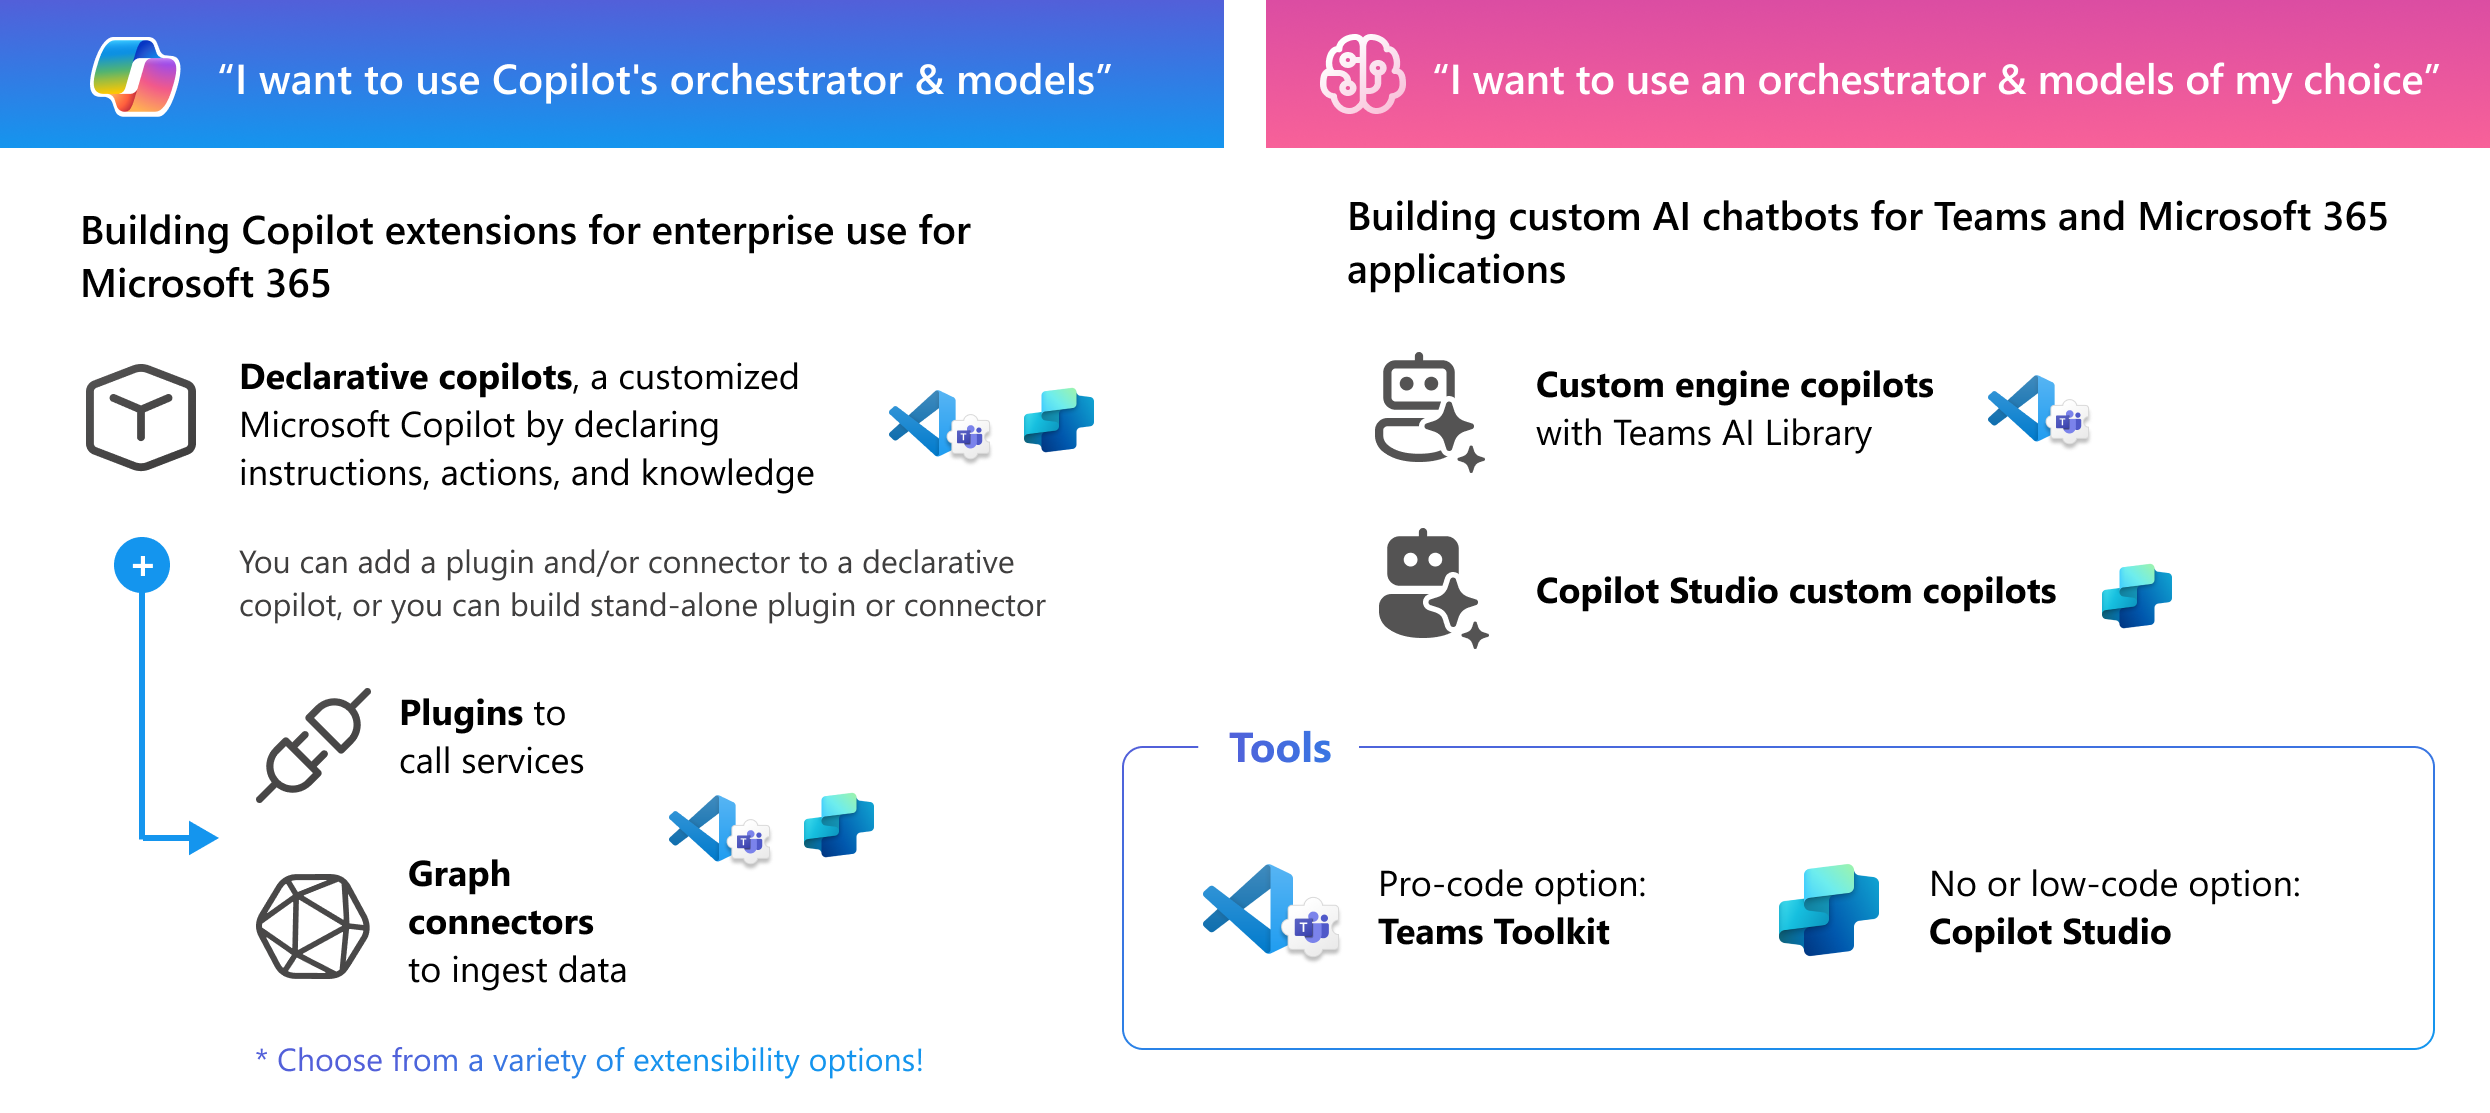
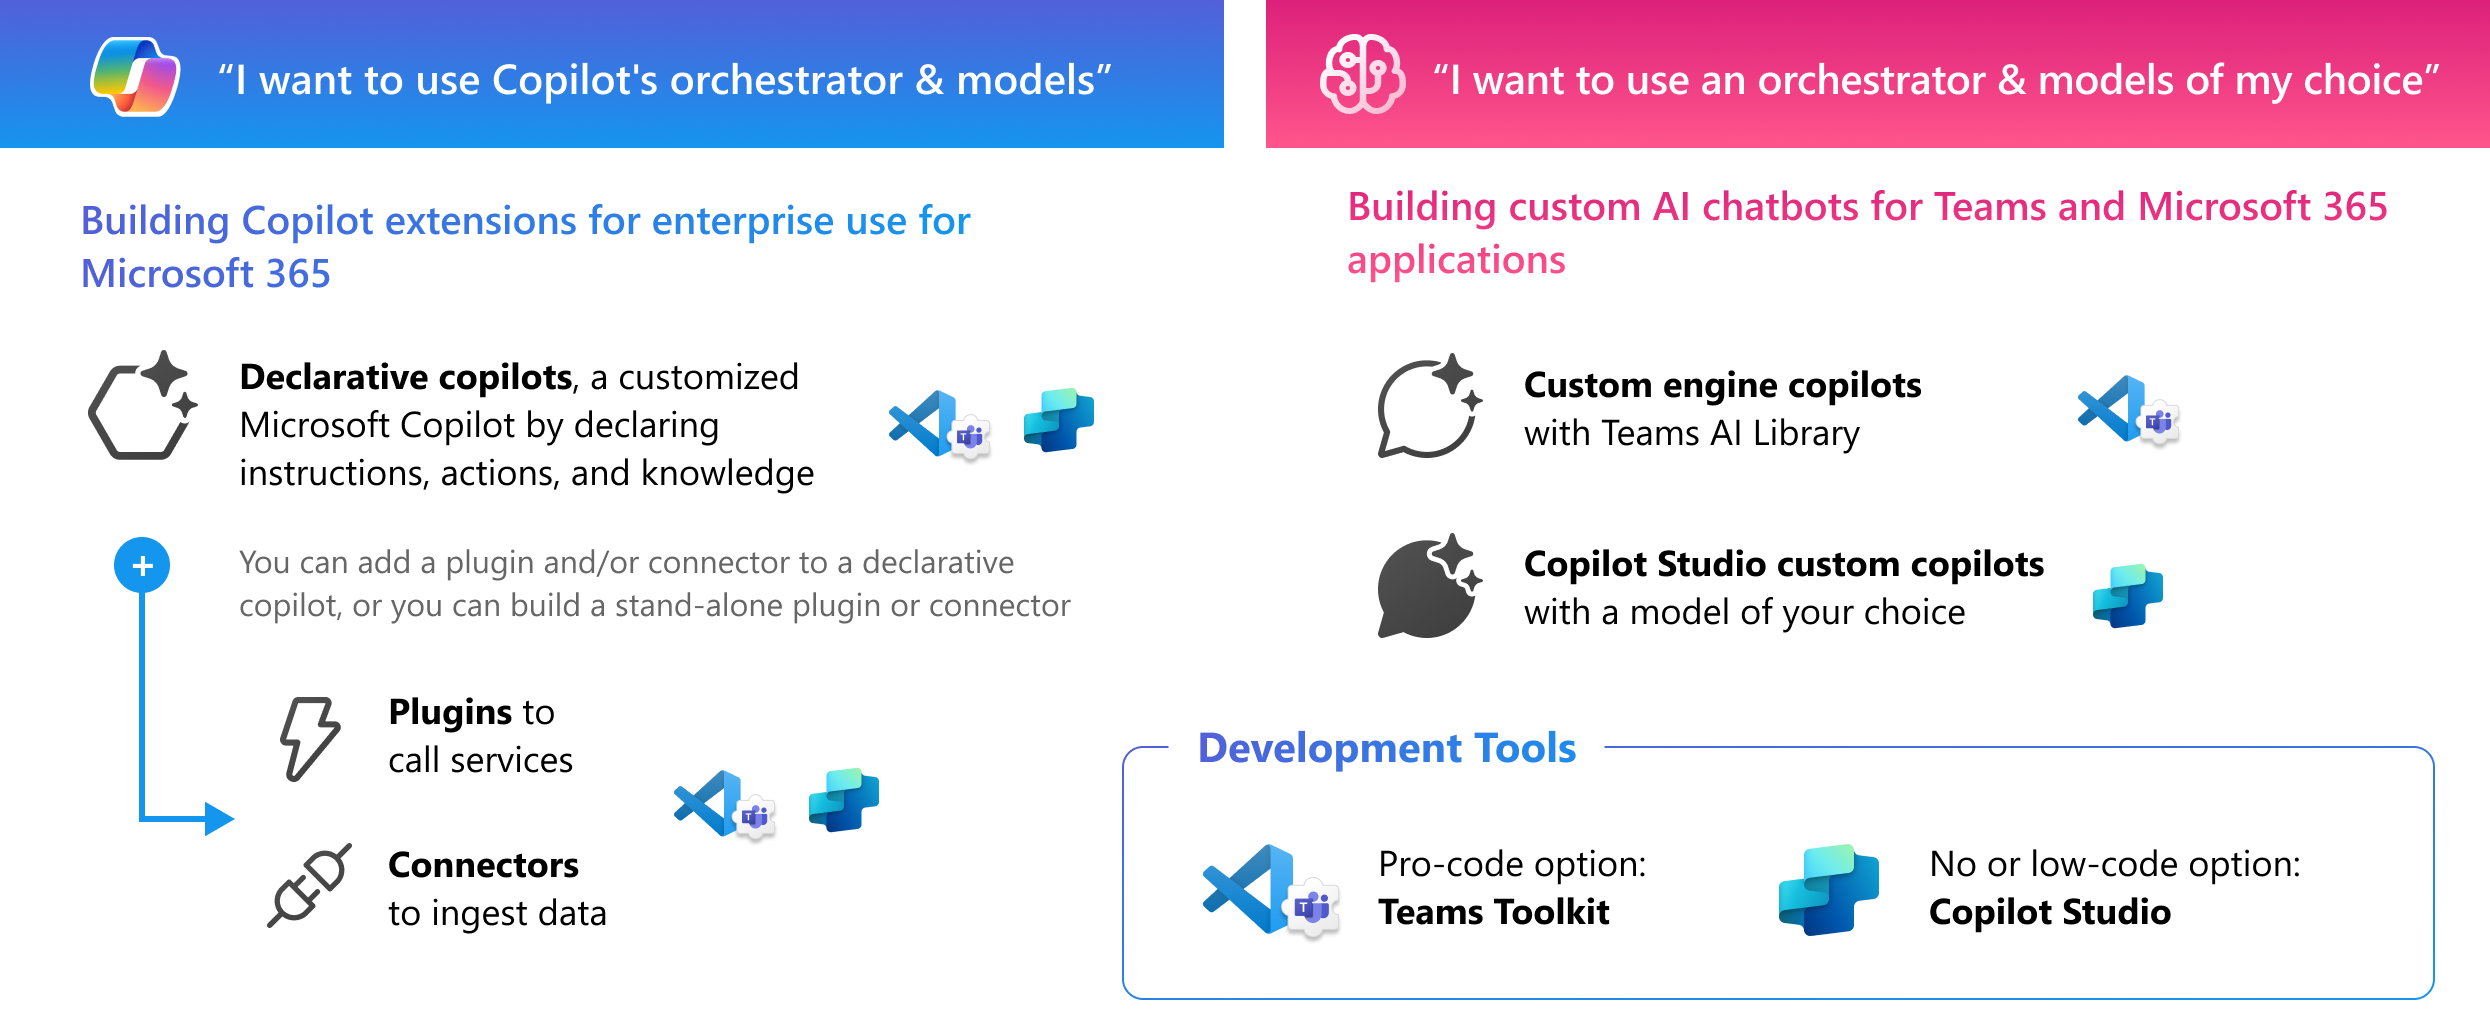
Edit to emphasize DC and CEC. Remove some mentions and comparisons for plugins and connectors to avoid confusions from having TMI!

diff --git a/docs/decision-guide.md b/docs/decision-guide.md
@@ -4,7 +4,7 @@ description: Understand which type of Microsoft Copilot for Microsoft 365 plugin
 author: girliemac
 ms.author: timura
 ms.topic: conceptual
-ms.date: 07/19/2024
+ms.date: 08/10/2024
 ---
 
 # Your extensibility options for Microsoft 365 Copilot
@@ -20,7 +20,7 @@ When you're looking to create a fully customized end-to-end AI product to cater 
 
 On the other hand, you can extend Microsoft Copilot, which is powered by private instances of Large Language Models (LLMs) and the Azure OpenAI service. Copilot combines LLM responses with organizational context to provide relevant assistance. When you build extensions for Copilot, you can utilize the [orchestration layer](orchestrator.md) representing the interface between foundation LLMs, to select and execute the right content from the right plugin.
 
-Here's your first decision-making point; extending Copilot to leverage the orchestrator, or build with your own?
+Here's your first decision-making point; extending Copilot to leverage the model and orchestrator, or build with your choice?
 
 :::image type="content" source="assets/images/m365-extensibility-decisions.png" alt-text="A diagram that helps you to decide which Microsoft 365 extensibility options are best for you. Read the article on this page for the details." lightbox="assets/images/m365-extensibility-decisions.png" :::
 
@@ -50,11 +50,11 @@ Now, it’s important to understand the variety of methods available for applyin
 
 > [!VIDEO https://www.youtube.com/embed/ILPOhVz9OdI]
 
-There are two distinct extension interfaces for Microsoft Copilot for end-users: standalone plugins that connect REST APIs, and declarative copilots. As an analogy, you can view Microsoft Copilot as something like an operating system, where plugins are services, and declarative copilots are apps.
+There are two distinct extension interfaces for Microsoft Copilot for end-users: standalone plugins that connect REST APIs, and declarative copilots. As an analogy, you can view Microsoft Copilot as something like an operating system, where plugins are services, and declarative copilots are apps. You can add a plugin and/or connector to a declarative copilot, or you can build a stand-alone plugin or connector.
 
 Now, let's find out which extensibility option(s) are for you—
 
-To create a copilot for specific tasks and domain knowledge, build:
+To customize Microsoft Copilot to create a specific copilot for certain tasks and domain knowledge, build:
 
 - 🎯 [**Declarative copilots**](overview-declarative-copilot.md)
 
@@ -66,13 +66,8 @@ And there are the growing number of extensions you build. Your options include:
 
 - **Plugins**, which add skills and actions to Microsoft 365.
   - 🎯 [**API plugins**](overview-api-plugins.md) can work either standalone, or with declarative copilots by calling REST APIs via OpenAPI service.
-  - 🎯 [**Message Extensions**](overview-message-extension-bot.md) for Teams are the search and action capability for Teams that now work as plugins too.
-  - 🎯 [**Actions in Copilot Studio**](/microsoft-copilot-studio/copilot-plugins-overview?context=/microsoft-365-copilot/extensibility/context), which connects Microsoft 365 and the Power Platform environment.
-    - **Conversational actions**, which can be created directly in Copilot Studio, to process a user query by completing one or more operations, and then sends one or more responses back to the user.
-    - **Prompts** which use AI Builder and natural language understanding including grounding on Dataverse to target the specific scenarios and workflows within your business.
-    - **Flows**, which use Power Automate flow to map existing flows or processes in your organization to perform actions, and retrieve and work with data.
-    - **Connectors**, which use Power Platform connectors to access data from other systems, such as popular enterprise products like Salesforce, Zendesk, MailChimp, and GitHub.
-
+  - 🎯 [**Teams Message Extensions**](overview-message-extension-bot.md) for Teams are the search and action capability for Teams that now work as plugins too.
+  - 🎯 [**Actions in Copilot Studio**](/microsoft-copilot-studio/copilot-plugins-overview?context=/microsoft-365-copilot/extensibility/context), which connects Microsoft 365 and the Power Platform environment. Actions include **Conversational actions**, **Prompts**, **Flows**, and **Connectors**.
 > [!NOTE]
 > Connectors and plugins can be built as a stand-alone, or with a declarative copilot.
 
@@ -91,30 +86,15 @@ How you build and which tools you should use is up to you. Your choices are:
 
 :::image type="content" source="assets/images/decision-making-guide.png" alt-text="A diagram that shows various developer options." lightbox="assets/images/decision-making-guide.png":::
 
-### Weighing your options
-
-There are many factors that you want to consider when deciding which option to pick.
-Before settling on a path, it’s wise to consider the pros and cons of each option. This ensures you make an informed decision that aligns with your development needs and goals.
-
-| Extensibility options   | Benefits                           | Limitations                          |
-|:------------------------|:-----------------------------------|:-------------------------------------|
-| **Graph connectors**               |  Able to add activities (*e.g.* View, modify, and shared), which improve the relevance<br/> <br/> Semantic discovery of content is immediately available without turning on<br/> <br/> Content in Graph also works with ContextIO, Content Recommendations and Enterprise Search in Microsoft365.com, SPO, and Bing at Work<br/> <br/> Third-party data stays within compliance boundary by indexing the data ([Learn more](data-privacy-security.md))  | Not visible or discoverable to end-users unless used with declarative copilots and/or message extensions <br/> <br/> No sideloading. The Search Administrator role is required to deploy your Graph Connector to Copilot<br/> <br/> If you don't implement Entra ID Groups in your system, you need to create External Groups calling Graph APIs and maintain sync state of the membership  |
-| **Declarative copilots**     | Your own branded chat experience <br/> <br/> Improved discoverability and user-experiences   | Still in private preview and features are limited  |
-| **API plugins**                  | Support search and action <br/> <br/> Support basic Adaptive Cards for better UX <br/> <br/> Simpler development with existing REST APIs with OpenAPI specifications <br/><br/> You can include instructions to LLM    | Still in private preview and features are limited       |
-| **Teams message extensions** | Discoverable through Teams Store or App Source marketplace <br/> <br/> Support search and action <br/> <br/> Support Adaptive Cards for better UX and more controls <br/><br/> Works on Outlook too <br/> <br/> If you previously have build message extensions for Teams, they now work as plugins         | Max 1 million plugins enabled per user <br/> <br/> Limited numbers of commands (max 3) and parameters (max 5) <br/> <br/> Orchestrator only reasons with 10 plugins per prompt <br/> <br/> Data can leave compliance boundary, as it calls the bot framework command, which is hosted externally to the Microsoft 365 boundary<br/> <br/> Performance depends on developers and hosting<br/> <br/> Handling multi-parameters with complex prompts can be challenging |
-| **Copilot Studio plugins**   | Fastest to first run experience <br/> <br/> No infrastructure management is needed <br/> <br/> No coding experience required <br/> <br/> Copilot Studio is included as part of the Microsoft Copilot license            | Customization can be limited <br/> <br/> Scaling might be limited to Microsoft Copilot Studio subscription tiers <br/> <br/> If the plugin uses Power Platform Connectors, users require a Power Platform license           |
-
 #### Data types
 
-Consider your data: how it's structured, the level of volume and activity you expect, and the required data access.
+Consider your data: how it's structured, the level of volume and activity you expect, and the required data access. When you want to add your own data, either with connectors or plugins, there are many factors that you want to consider.
 
-| Solution | Data structure | Data volume | Data activity | Summarize/ Act |
+| Solution | Data structure | Data volume | Data activity | Can modify data |
 |-------|-------|---------|----------|----------|
-| **Graph connectors** | Unstructured data (*e.g.* plain text documents, wiki pages, and PDF files) | Up to 5M items per connection | Up to 20 requests per second | Summarize (Copilot analyzes and extracts key information) only |
-| **Message extension plugins** | Structured data (organized in a predefined manner, often in the form of tables with rows and columns)| Suitable for high volume data (Over 5M) | Suitable for high activity (Over 20 req/sec.)  | Summarize + Act (with Adaptive Card, a user can modify the data)|
-| **Copilot Studio plugins** | Structured data | Suitable for high volume data (Over 5M) | Suitable for high volume data (Over 5M) | Summarize only |
-
-**Coming soon**: Soon, Copilot will analyze input prompts using machine learning techniques to generate new content. It examines available plugin commands based on their descriptions and parameters. Then, it populates relevant data into those parameters and executes the command.
+| **Graph connectors** | Unstructured data (*e.g.* plain text documents, wiki pages, and PDF files) | Up to 5M items per connection | Up to 20 requests per second | No. Copilot only analyzes and extracts key information to summarize the data. |
+| **Plugins** | Structured data (organized in a predefined manner, often in the form of tables with rows and columns)| Suitable for high volume data | Suitable for high activity | Yes. A user can modify the data via Adaptive Card UI. |
+| **Copilot Studio Actions** | Structured data | Suitable for high volume data | Suitable for high activity | No. Copilot only summarizes the data. |
 
 ## Option 2: Building a custom engine copilot for Microsoft 365
 
@@ -126,17 +106,17 @@ With Azure AI services, you can craft a custom AI chatbot for Teams and Microsof
 
 In the context of building copilots for Microsoft 365, there are several options available. This diagram provides a comparison between the **Copilot extensibility** options (Graph connectors, plugins, and declarative copilots, which can connect to Graph connectors and plugins) and the **custom engine copilot**:
 
-:::image type="content" source="assets/images/copilot-ext-vs-cec.png" border="true" alt-text="This diagram compares options between Copilot extensions and custom engine copilot for M365" lightbox="assets/images/copilot-ext-vs-cec.png":::
+:::image type="content" source="assets/images/copilot-ext-vs-cec.png" border="true" alt-text="This diagram compares options between Copilot extensions and custom engine copilots for M365" lightbox="assets/images/copilot-ext-vs-cec.png":::
 
-The custom engine copilot operates on a BYO (Bring Your Own) model. So, you can use your preferred LLM and orchestrator.
+The custom engine copilots operates on a BYO (Bring Your Own) model. So, your copilot is independent from Microsoft Copilot and its LLM and orchestrator.
 
-Building custom engine copilot is an excellent choice if:
+Building custom engine copilots is an excellent choice if:
 
-- You want to choose models and orchestration
+- You want to use models and orchestration of your choice
 - You have prior experience in building Teams bots or are familiar with Teams bot development
-- You aim to have your conversational AI bot accessible to all Microsoft 365 users, regardless of their Copilot licensing status
+- You aim to have your conversational AI bot accessible to all Microsoft 365 users, regardless of your Copilot licensing status
 
-🎯 Learn more on building your own [**custom engine copilot**](overview-custom-engine-copilot.md).
+🎯 Learn more on building your own [**custom engine copilots**](overview-custom-engine-copilot.md).
 
 ### Tool options: Pro-code or low-code?
 
